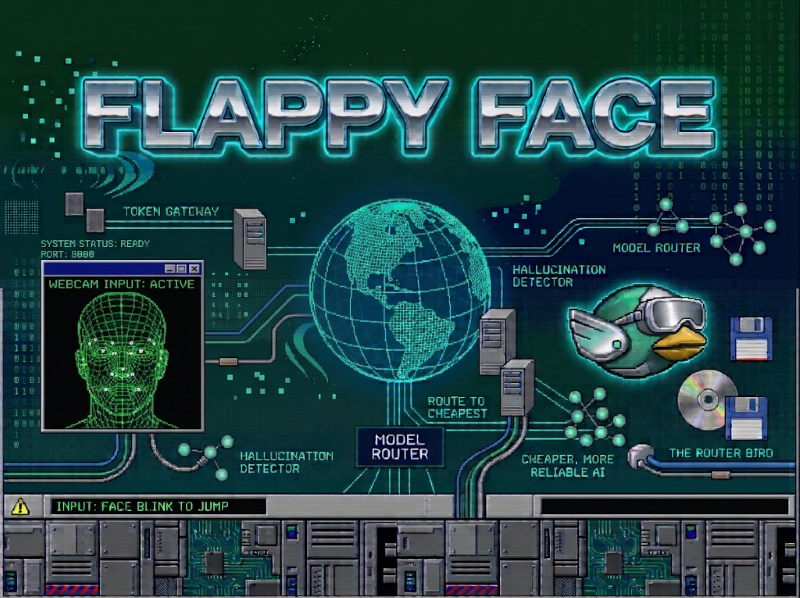
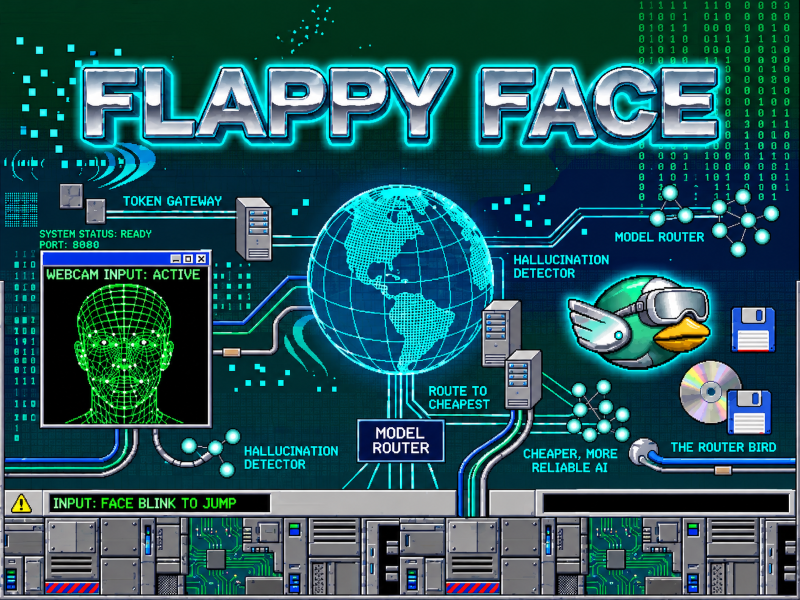
Change to background

diff --git a/main.py b/main.py
@@ -154,18 +154,18 @@ def main_menu():
 
         MENU_MOUSE_POS = pygame.mouse.get_pos()
 
-        MENU_TEXT = get_font(100).render("", True, "#d7fcd4")
+        MENU_TEXT = get_font(100).render("", True, "#FFC857")
         MENU_RECT = MENU_TEXT.get_rect(center=(400, 100))
 
         # high score: plain text, not a button
-        HIGH_SCORE_TEXT = get_font(30).render(f"HIGH SCORE: {high_score}", True, "#d7fcd4")
+        HIGH_SCORE_TEXT = get_font(30).render(f"HIGH SCORE: {high_score}", True, "#FFC857")
         HIGH_SCORE_RECT = HIGH_SCORE_TEXT.get_rect(center=(400, 200))
 
         # Play button sits where Options used to be
         PLAY_BUTTON = Button(image=pygame.image.load("./assets/images/main-menu/Play Rect.png"), pos=(400, 350),
-                            text_input="PLAY", font=get_font(35), base_color="#d7fcd4", hovering_color="White")
+                            text_input="PLAY", font=get_font(35), base_color="#FFC857", hovering_color="White")
         QUIT_BUTTON = Button(image=pygame.image.load("./assets/images/main-menu/Quit Rect.png"), pos=(400, 500),
-                            text_input="QUIT", font=get_font(35), base_color="#d7fcd4", hovering_color="White")
+                            text_input="QUIT", font=get_font(35), base_color="#FFC857", hovering_color="White")
 
         screen.blit(MENU_TEXT, MENU_RECT)
         screen.blit(HIGH_SCORE_TEXT, HIGH_SCORE_RECT)
